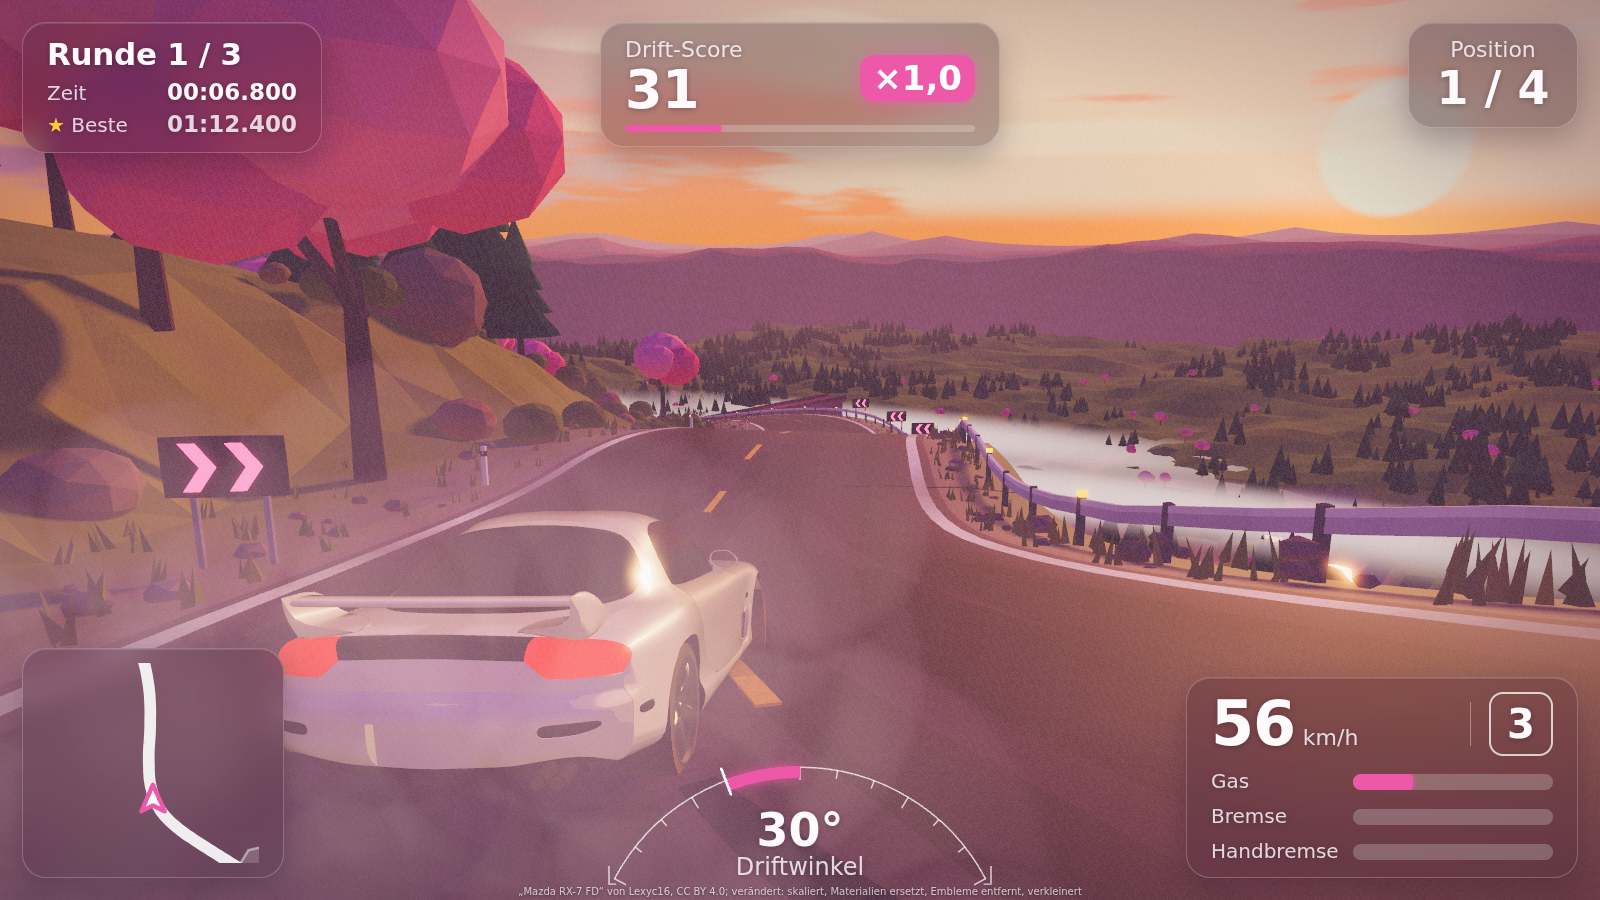
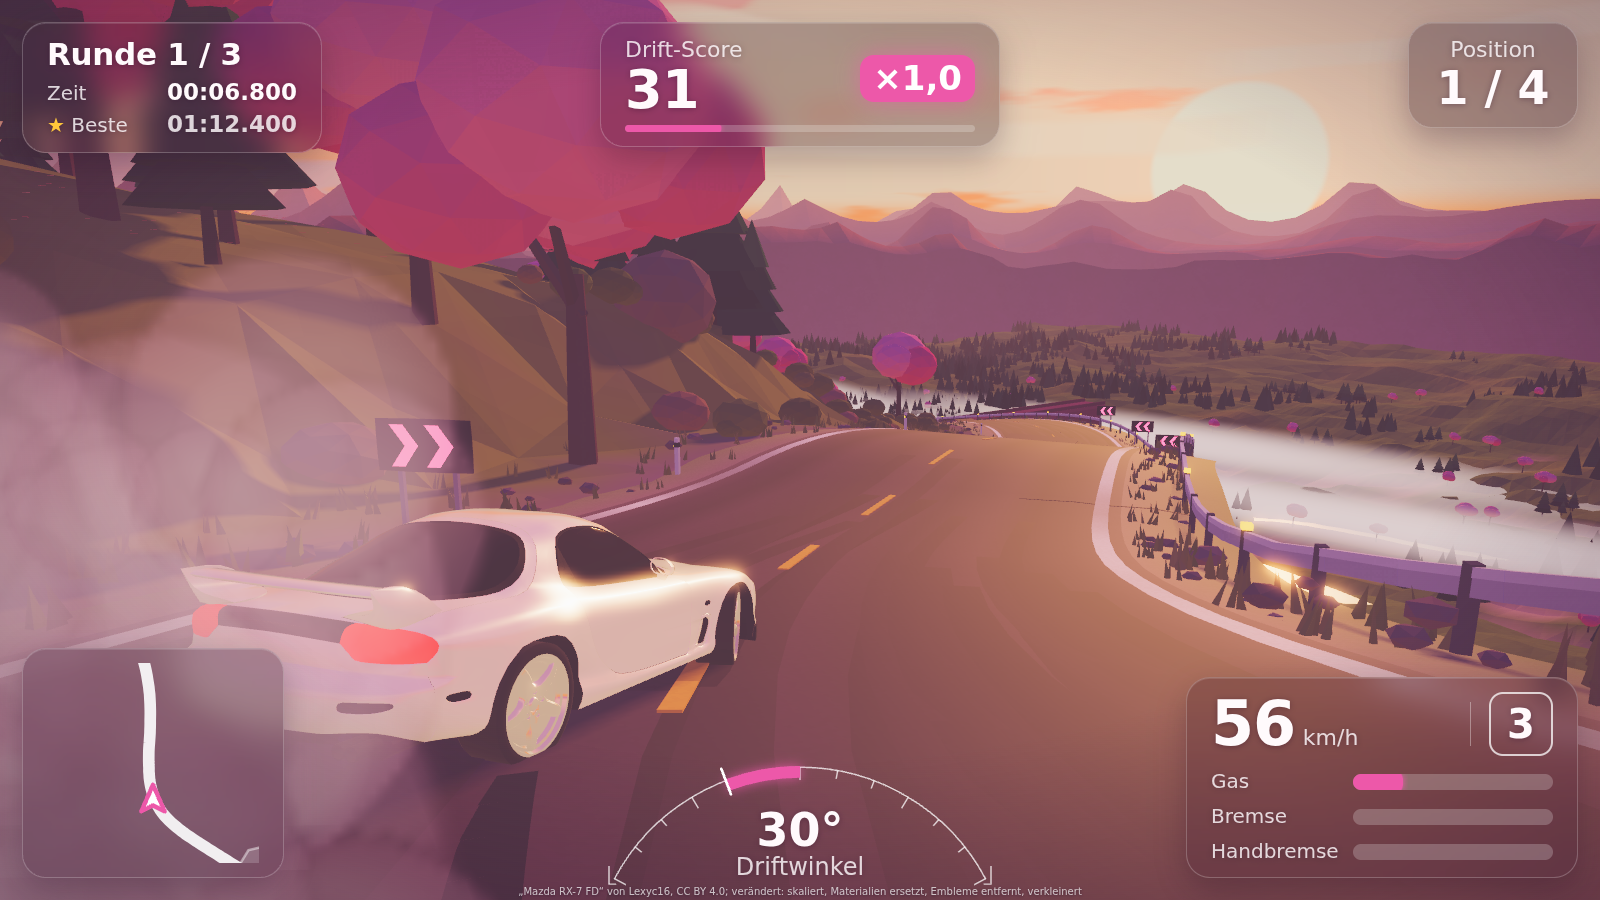
Look probe round 22: sharp staggered peaks, the car from behind-left with its flank, sun in the right third, bigger rosier smoke that never covers the car (Billows.aim); LOOK-LOG.md

diff --git a/game/view/look/billows.js b/game/view/look/billows.js
@@ -29,15 +29,18 @@ export class Billows {
     this.car = { value: new THREE.Vector3(0, -999, 0) };
     const S = look.smoke;
     this.material = new THREE.ShaderMaterial({
-      uniforms: { tMap: { value: billowTexture(S.colour, S.shade) }, uCar: this.car, uClear: { value: S.clear ?? 0 }, uNear: { value: S.near ?? 3 }, uTint: { value: new THREE.Color(S.tint ?? '#ffffff').multiplyScalar(S.bright ?? 1) } },   // brighter than white: lit by the low sun
+      uniforms: { tMap: { value: billowTexture(S.colour, S.shade) }, uCar: this.car, uCarView: { value: new THREE.Vector4(0, 0, 0, 0) }, uClear: { value: S.clear ?? 0 }, uNear: { value: S.near ?? 3 }, uTint: { value: new THREE.Color(S.tint ?? '#ffffff').multiplyScalar(S.bright ?? 1) } },   // brighter than white: lit by the low sun
       vertexShader: /* glsl */ `
         attribute vec4 aData; attribute vec2 aAlpha;
+        uniform vec4 uCarView;   // the car in view space (xyz) and its radius on screen (w, in view units at its depth)
         varying vec2 vUv; varying float vA; varying vec3 vW; varying float vDist;
         void main() {
           vUv = uv; vA = aAlpha.x; vW = aData.xyz;
           float c = cos(aAlpha.y), s = sin(aAlpha.y);
           vec2 p = vec2(position.x * c - position.y * s, position.x * s + position.y * c) * aData.w;
           vec4 mv = modelViewMatrix * vec4(aData.xyz, 1.0);
+          // a puff in front of the car that would cover it on screen fades out: the car is always seen, the smoke beside and behind it stays
+          if (uCarView.w > 0.0 && -mv.z < -uCarView.z - 0.5) { vec2 onCar = mv.xy * (-uCarView.z / -mv.z) - uCarView.xy; float r = uCarView.w + aData.w * 0.25 * (-uCarView.z / -mv.z); vA *= smoothstep(r * 0.6, r * 1.0, length(onCar)); }
           mv.xy += p; vDist = -mv.z;
           gl_Position = projectionMatrix * mv;
         }`,
@@ -57,6 +60,12 @@ export class Billows {
     this.mesh = new THREE.Mesh(geo, this.material);
     this.mesh.frustumCulled = false; this.mesh.renderOrder = 4;
     this.opacity = S.opacity ?? 0.9;
+    this.scale = S.size ?? 1;   // how big the billows grow
+  }
+  /** The car's place for the fade (drawing space) and the camera: puffs in front of the car that would cover it fade out. */
+  aim(camera, radius = 1.6) {
+    const v = this.material.uniforms.uCarView.value, p = this.car.value.clone().add(new THREE.Vector3(0, 0.7, 0)).applyMatrix4(camera.matrixWorldInverse);
+    v.set(p.x, p.y, p.z, radius);
   }
   rnd() { this.seed = (this.seed * 16807) % 2147483647; return this.seed / 2147483647; }
   emit(x, y, z, vx, vz, strength) {
@@ -78,7 +87,7 @@ export class Billows {
     for (let i = 0; i < this.cap; i++) {
       const k = this.age[i] / this.life[i];
       d[i * 4] = this.pos[i * 3]; d[i * 4 + 1] = this.pos[i * 3 + 1]; d[i * 4 + 2] = this.pos[i * 3 + 2];
-      d[i * 4 + 3] = k >= 1 ? 0 : (2.0 + k * 6.5) * this.grow[i];
+      d[i * 4 + 3] = k >= 1 ? 0 : (2.0 + k * 6.5) * this.grow[i] * this.scale;
       al[i * 2] = k >= 1 ? 0 : this.opacity * Math.sqrt(1 - k) * Math.min(1, k * 5); al[i * 2 + 1] = this.spin[i] + k * 0.6;
     }
     this.data.needsUpdate = true; this.alpha.needsUpdate = true;

diff --git a/game/view/look/world.js b/game/view/look/world.js
@@ -164,7 +164,8 @@ function ridges(S, scene, look, tier) {
     const N = scene.ridges.notch, na = N ? Math.atan2(N.z - cz, N.x - cx) : 0;
     const open = (a) => { if (!N || k >= N.rings) return 0; let d = Math.abs(a - na) % (Math.PI * 2); if (d > Math.PI) d = Math.PI * 2 - d; return 1 - smoothstep(N.width * 0.5, N.width, d); };
     const lower = (a, h) => (N ? h + (N.floor - h) * open(a) : h);
-    const peak0 = (a) => { const v = 1 - Math.abs(noise2(Math.cos(a) * 2.6 + k * 11, Math.sin(a) * 2.6 - k * 5)); const w = noise2(a * 9 + k * 3, k * 7) * 0.5 + 0.5; return h0 + (h1 - h0) * (v * v * v * 0.85 + w * 0.15); };
+    const sharp = scene.ridges.sharp ?? 2.6;   // how many peaks round the ring (higher: more, steeper peaks)
+    const peak0 = (a) => { const v = 1 - Math.abs(noise2(Math.cos(a) * sharp + k * 11, Math.sin(a) * sharp - k * 5)); const w = noise2(a * 9 + k * 3, k * 7) * 0.5 + 0.5; return h0 + (h1 - h0) * (v * v * v * 0.85 + w * 0.15); };
     const peak = (a) => lower(a, peak0(a));
     const mid = base.clone().lerp(skirt, 0.5);
     const rows = [[-300, (a) => lower(a, -320), skirt], [-150, (a) => lower(a, peak0(a) * 0.15 + noise2(a * 31, k) * 12 - 120), mid], [-70, (a) => lower(a, peak0(a) * 0.5 + noise2(a * 23, k) * 10), base], [25, peak, rim]];

diff --git a/game/lookprobe.js b/game/lookprobe.js
@@ -149,6 +149,7 @@ function draw(now) {
   hud.update({ lap: H.lap, laps: H.laps, ms: simTime * 1000, best: H.best, pos: 1, of: H.of },
     { kmh, forward: Math.sign(vf) || 1, slip: bodySlip(cur), x: X(s.x), z: s.z, h: s.h }, lastInp, score,
     scene0.parked.map((p) => [X(p.x), p.z]), running ? dt : 0.016);
+  camera.updateMatrixWorld(); smoke.aim?.(camera);   // the smoke keeps the car in sight
   stage.render();
   avg += (Math.min(250, dt * 1000) - avg) * 0.05; frames++;
   if (!$('pdebug').hidden && now - shown > 400) {

diff --git a/docs/LOOK-LOG.md b/docs/LOOK-LOG.md
@@ -264,3 +264,21 @@ facet 0.07, blotch 0.10, grain 0.02), the road's grain weaker (`road.grain` 0.12
 "Why is the car model so ugly, it was better in the rx7 folder": the painted car style (toon steps, contour, dust) is off; it is an
 option of the look now (`car.painted`, default off) and the car keeps the game's normal PBR materials with the sky's reflection and
 clear coat. Whether the model file keeps its original textures and rim materials is asked of the car session (the normaliser).
+
+## Round 22 (2026-11-26)
+
+Done: sharp, staggered mountain peaks (`ridges.sharp`: more peaks round each ring, five rings, higher and finer on the high tier); the
+car seen from behind-left with its flank and drift angle as in the mockup (chase camera: 1.5 m to the right, turn 10 degrees, 6 m
+behind); the sun moved back into the right third over the peaks; warmer, rosier and bigger smoke billows (`smoke.size`), and a puff
+in front of the car that would cover it on screen fades out (`Billows.aim(camera)`), so the car is always seen and the smoke beside
+and behind it stays.
+
+Distances: mean 30 (round 20: 28; the new camera trades a little colour match for the mockup's angle); top-left 14, smoke 12,
+middle-left 20, middle-right 22, road-near 26, bottom-left 29, bottom-right 30, top-right 37, sky-top 44, near-sun 62.
+
+Biggest differences left:
+1. Sky top and near the sun: paler cream than the mockup's pink and orange.
+2. Smoke: thinner than the mockup's dense billows at the lower left.
+3. The bridge is not in sight from this camera.
+4. The cherry tree at the top left hangs in front of the drift-score card; the mockup's sits further left.
+5. Car model (RX-7) and HUD values (short drift), as before.
